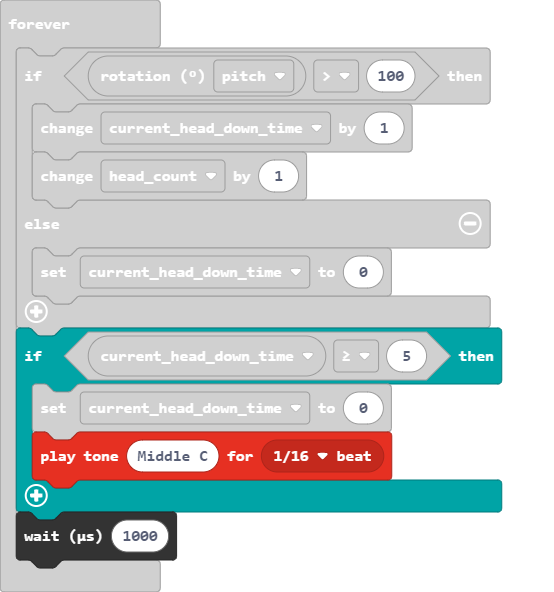
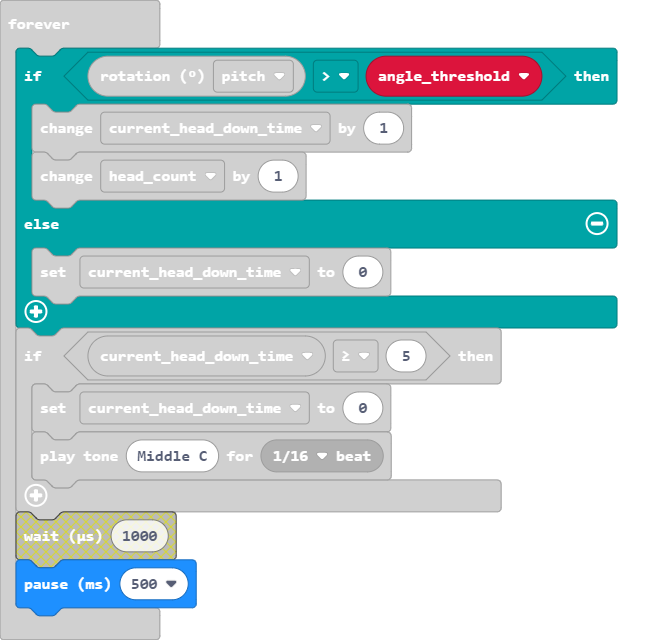
Update main.blocks, main.ts

diff --git a/main.ts b/main.ts
@@ -15,7 +15,7 @@ head_count = 0
 let current_head_down_time = 0
 angle_threshold = 100
 basic.forever(function () {
-    if (input.rotation(Rotation.Pitch) > 100) {
+    if (input.rotation(Rotation.Pitch) > angle_threshold) {
         current_head_down_time += 1
         head_count += 1
     } else {
@@ -25,5 +25,5 @@ basic.forever(function () {
         current_head_down_time = 0
         music.playTone(262, music.beat(BeatFraction.Sixteenth))
     }
-    control.waitMicros(1000)
+    basic.pause(500)
 })
